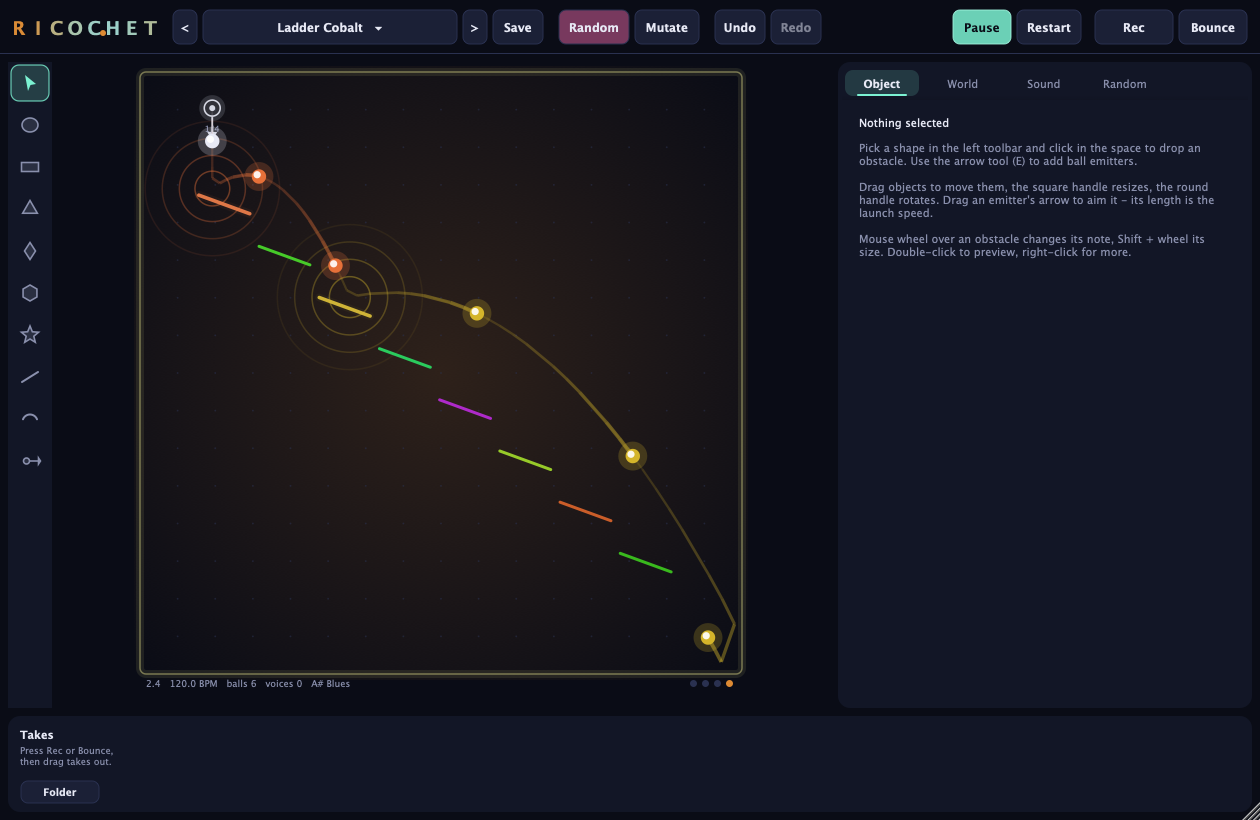
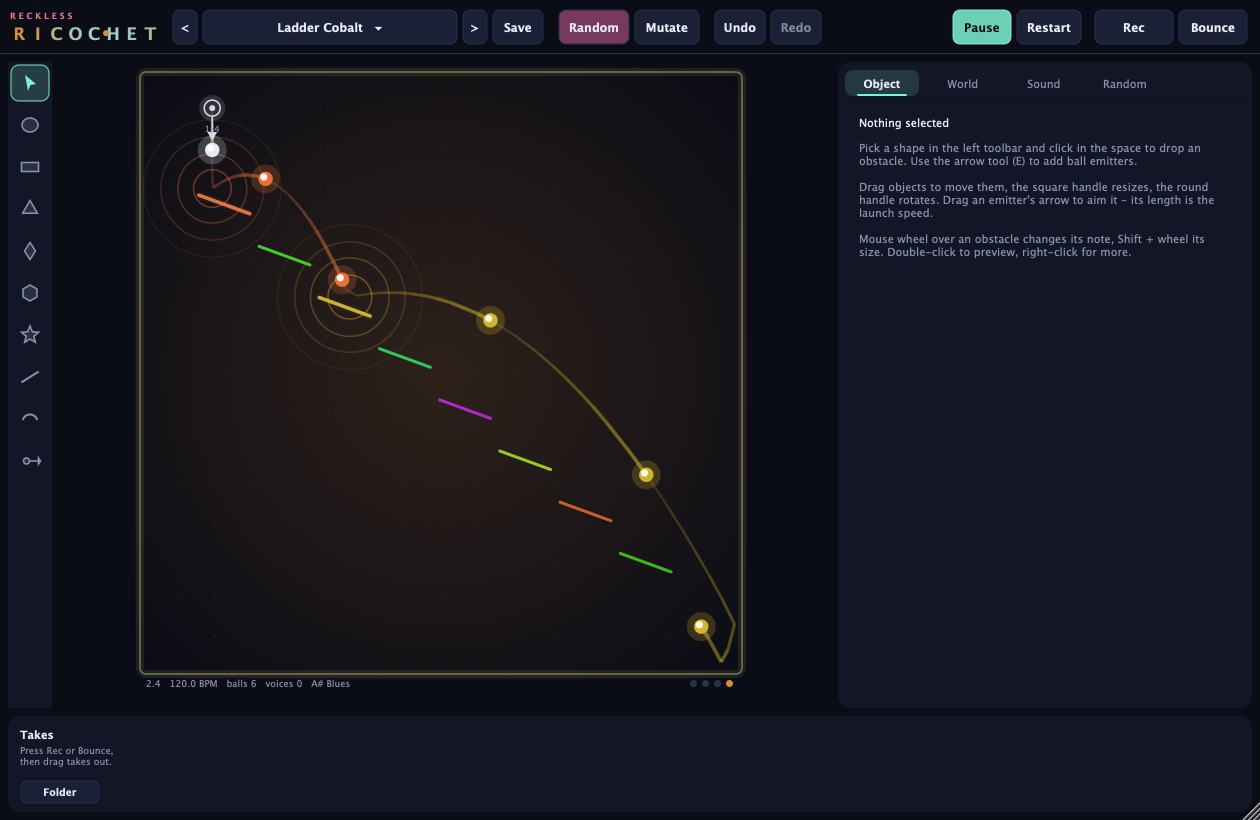
Rename the plug-in to Reckless Ricochet
Product name, host-visible name, logo, recording file prefix, CI package
names and README. Plug-in codes and bundle id are unchanged, so existing
DAW sessions keep loading it.

diff --git a/Source/UI/TopBar.cpp b/Source/UI/TopBar.cpp
@@ -97,7 +97,7 @@ void TopBar::toggleRecord()
     }
     else if (! rec.start())
     {
-        juce::AlertWindow::showMessageBoxAsync (juce::MessageBoxIconType::WarningIcon, "Ricochet",
+        juce::AlertWindow::showMessageBoxAsync (juce::MessageBoxIconType::WarningIcon, "Reckless Ricochet",
                                                 "Could not create a recording file in\n" + ric::recordingsFolder().getFullPathName());
     }
 }
@@ -165,7 +165,7 @@ void TopBar::savePreset()
         if (safe == nullptr || safe->saveDialog == nullptr) return;
         const auto name = safe->saveDialog->getTextEditorContents ("name").trim();
         if (result == 1 && name.isNotEmpty() && ! safe->processor.saveCurrentAsUserPreset (name))
-            juce::AlertWindow::showMessageBoxAsync (juce::MessageBoxIconType::WarningIcon, "Ricochet", "Could not save the preset.");
+            juce::AlertWindow::showMessageBoxAsync (juce::MessageBoxIconType::WarningIcon, "Reckless Ricochet", "Could not save the preset.");
         safe->saveDialog.reset();
     }), false);
 }
@@ -174,11 +174,15 @@ void TopBar::paint (juce::Graphics& g)
 {
     g.fillAll (Theme::bg);
 
-    // Logo: letters lit by the current ambient (note) colour.
+    // Logo: "RECKLESS" small above "RICOCHET", letters lit by the current ambient (note) colour.
     const juce::String word ("RICOCHET");
     const auto amb = canvas.getAmbientColour();
     auto r = logoArea.toFloat();
-    g.setFont (Theme::font (22.0f, true));
+    auto top = r.removeFromTop (r.getHeight() * 0.36f);
+    g.setFont (Theme::font (10.0f, true));
+    g.setColour (Theme::accent2.interpolatedWith (amb, 0.3f));
+    g.drawText ("R E C K L E S S", top, juce::Justification::centredLeft);
+    g.setFont (Theme::font (20.0f, true));
     const float cw = r.getWidth() / (float) word.length();
     for (int i = 0; i < word.length(); ++i)
     {

diff --git a/Source/PluginProcessor.h b/Source/PluginProcessor.h
@@ -57,7 +57,7 @@ public:
     juce::AudioProcessorEditor* createEditor() override;
     bool hasEditor() const override { return true; }
 
-    const juce::String getName() const override { return "Ricochet"; }
+    const juce::String getName() const override { return "Reckless Ricochet"; }
     bool acceptsMidi() const override { return true; }
     bool producesMidi() const override { return true; }
     bool isMidiEffect() const override { return false; }

diff --git a/Source/PluginProcessor.cpp b/Source/PluginProcessor.cpp
@@ -366,7 +366,7 @@ bool RicochetProcessor::startBounce (double bars)
 
     bounceThread = std::make_unique<FunctionThread> ([this, s, snd, bs]
     {
-        const auto file = ric::newRecordingFile ("Ricochet_Bounce");
+        const auto file = ric::newRecordingFile ("RecklessRicochet_Bounce");
         const bool ok = ric::bounceSceneToWav (s, snd, bs, file, &bounceProgress);
         {
             const juce::ScopedLock sl (bounceLock);

diff --git a/Source/Recorder.cpp b/Source/Recorder.cpp
@@ -22,7 +22,7 @@ bool Recorder::start()
 {
     stop();
 
-    auto file = ric::newRecordingFile ("Ricochet");
+    auto file = ric::newRecordingFile ("RecklessRicochet");
     auto writer = ric::createWavWriter (file, sampleRate);
     if (writer == nullptr)
         return false;

diff --git a/README.md b/README.md
@@ -1,10 +1,10 @@
-# Ricochet
+# Reckless Ricochet
 
 **Instrument VST3 / AU génératif : des billes rebondissent sur des obstacles, chaque obstacle touché joue une note.**
 
 *Generative VST3 / AU instrument — marbles bounce around a space you design, every obstacle they hit plays a note. (English summary at the bottom.)*
 
-![Ricochet – Pinball](docs/screenshot-pinball.png)
+![Reckless Ricochet – Pinball](docs/screenshot-pinball.png)
 
 | | |
 |---|---|
@@ -52,9 +52,9 @@ Les prises sont dans `~/Music/Ricochet/Recordings`, les presets utilisateur dans
 
 Télécharger les binaires depuis l'onglet **Actions** (artefacts de build) ou **Releases**.
 
-- macOS : copier `Ricochet.component` dans `~/Library/Audio/Plug-Ins/Components` et `Ricochet.vst3` dans `~/Library/Audio/Plug-Ins/VST3`. Les binaires ne sont pas notarisés : si macOS les bloque, lancer
-  `xattr -dr com.apple.quarantine ~/Library/Audio/Plug-Ins/Components/Ricochet.component ~/Library/Audio/Plug-Ins/VST3/Ricochet.vst3`
-- Windows : copier `Ricochet.vst3` dans `C:\Program Files\Common Files\VST3`.
+- macOS : copier `Reckless Ricochet.component` dans `~/Library/Audio/Plug-Ins/Components` et `Reckless Ricochet.vst3` dans `~/Library/Audio/Plug-Ins/VST3`. Les binaires ne sont pas notarisés : si macOS les bloque, lancer
+  `xattr -dr com.apple.quarantine ~/Library/Audio/Plug-Ins/Components/"Reckless Ricochet.component" ~/Library/Audio/Plug-Ins/VST3/"Reckless Ricochet.vst3"`
+- Windows : copier `Reckless Ricochet.vst3` dans `C:\Program Files\Common Files\VST3`.
 
 ## Compiler
 
@@ -87,10 +87,10 @@ La simulation tourne dans le thread audio, sans allocation, de façon détermini
 
 ## Licence
 
-AGPL-3.0 (Ricochet est construit avec [JUCE](https://juce.com), lui-même distribué sous AGPLv3 pour les projets open source).
+AGPL-3.0 (Reckless Ricochet est construit avec [JUCE](https://juce.com), lui-même distribué sous AGPLv3 pour les projets open source).
 
 ---
 
 ### English summary
 
-Ricochet is a generative instrument plug-in (VST3, AU, Standalone). Place obstacles of 8 shapes, set their size, rotation and spin, drop ball emitters, aim them and pick their tempo-synced rate. Every collision triggers that obstacle's note on one of 8 built-in synth engines (scale-quantised, optional grid quantise, MIDI out). Ships with 168 presets, a seeded randomiser with locks, real-time recording and offline bounce to 24-bit WAV, with drag & drop of takes into your DAW. Colours follow the notes being played.
+Reckless Ricochet is a generative instrument plug-in (VST3, AU, Standalone). Place obstacles of 8 shapes, set their size, rotation and spin, drop ball emitters, aim them and pick their tempo-synced rate. Every collision triggers that obstacle's note on one of 8 built-in synth engines (scale-quantised, optional grid quantise, MIDI out). Ships with 168 presets, a seeded randomiser with locks, real-time recording and offline bounce to 24-bit WAV, with drag & drop of takes into your DAW. Colours follow the notes being played.
